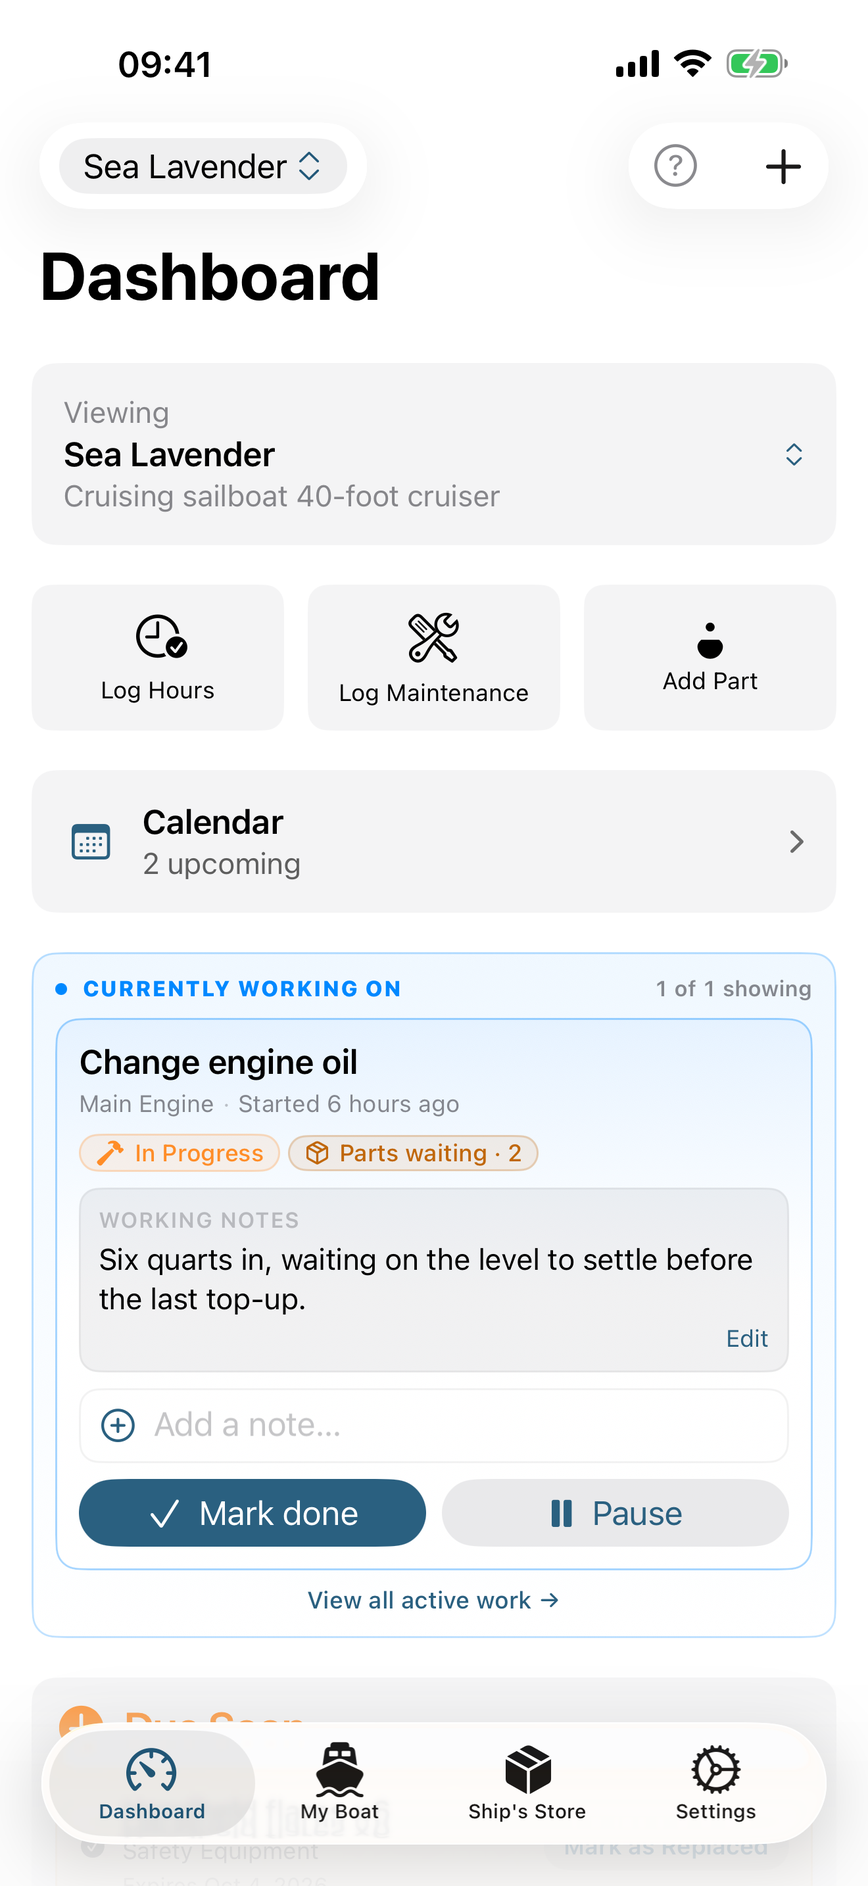
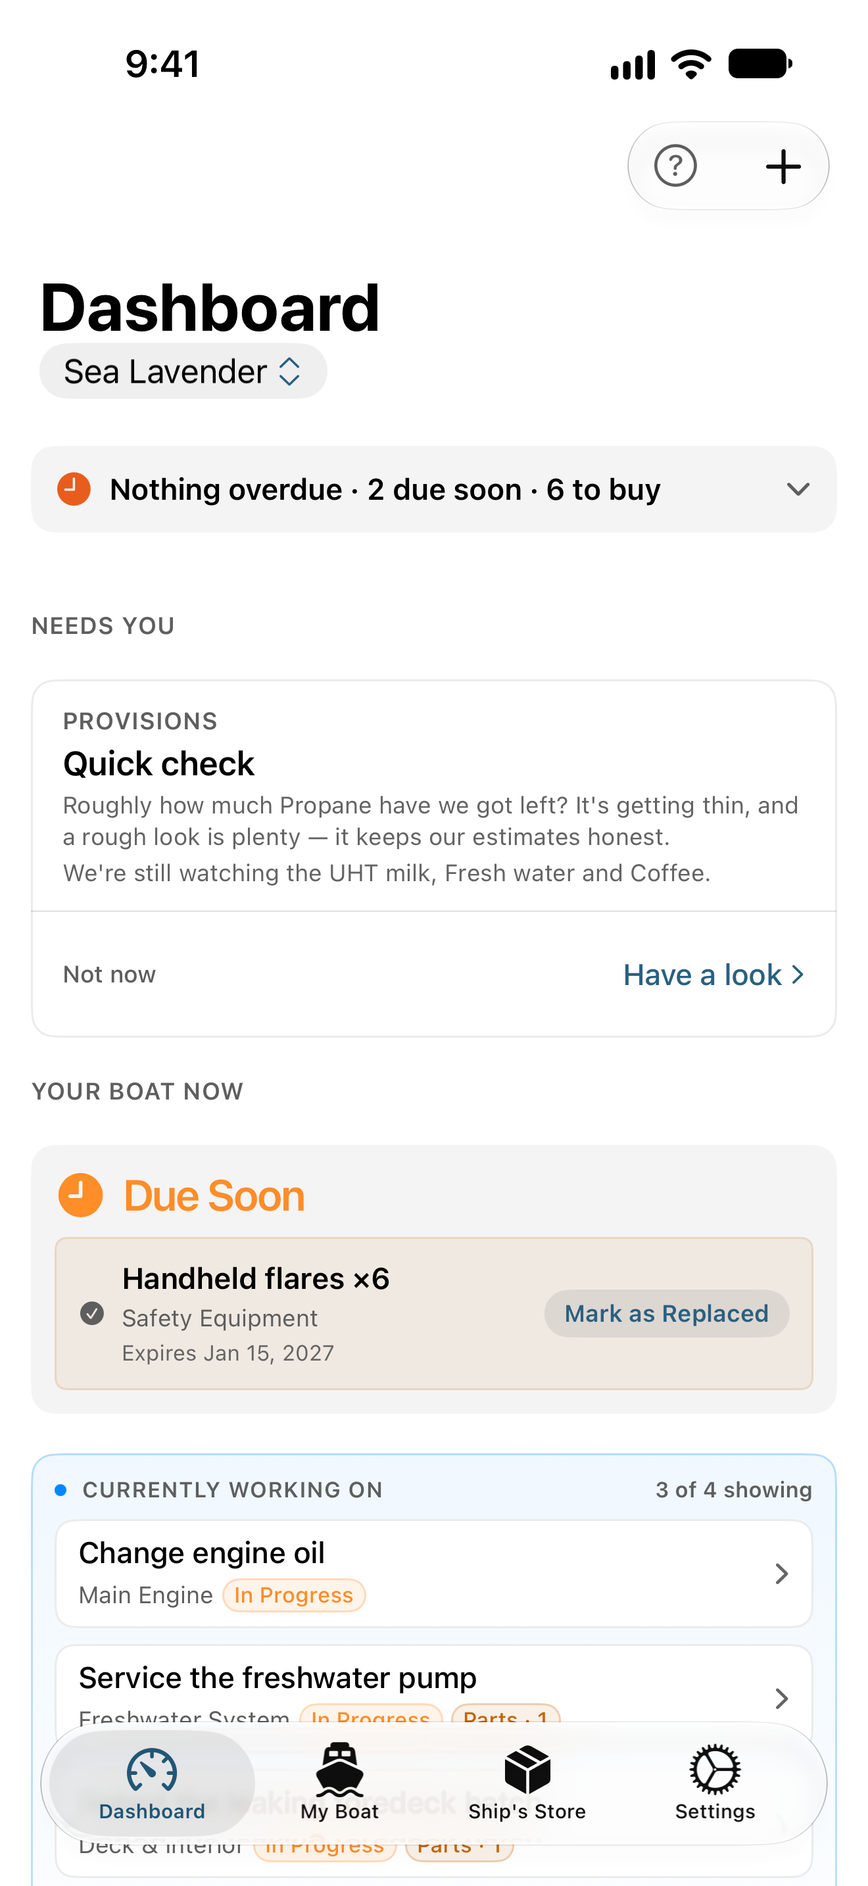
v1.7.0

diff --git a/index.html b/index.html
@@ -4,9 +4,9 @@
   <meta charset="UTF-8">
   <meta name="viewport" content="width=device-width, initial-scale=1.0">
   <title>Maintenance Crew — Boat maintenance, on your terms.</title>
-  <meta name="description" content="A boat-maintenance tracker for iPhone, iPad, and Mac. Schedule service, track parts, and pull schedules from manuals. No account, no tracking.">
+  <meta name="description" content="A boat-maintenance tracker for iPhone, iPad, and Mac. Schedule service, track parts, keep your boat&rsquo;s specs and ask Siri about them. No account, no tracking.">
   <meta property="og:title" content="Maintenance Crew">
-  <meta property="og:description" content="A boat-maintenance tracker for iPhone, iPad, and Mac. Schedule service, track parts, and pull schedules from manuals. No account, no tracking.">
+  <meta property="og:description" content="A boat-maintenance tracker for iPhone, iPad, and Mac. Schedule service, track parts, keep your boat&rsquo;s specs and ask Siri about them. No account, no tracking.">
   <meta property="og:type" content="website">
   <meta property="og:url" content="https://maintenancecrew.app">
   <link rel="stylesheet" href="style.css">
@@ -50,9 +50,9 @@
         <span class="price-note">Annual subscription &middot; Family Sharing &middot; iCloud Sync</span>
       </div>
       <div class="hero-phones">
-        <img src="assets/screen-shipstore-iphone.png" alt="Ship's Store showing spare parts by stow location">
-        <img src="assets/screen-dashboard-iphone.png" alt="Dashboard with what's overdue, active work, the calendar, and daily basics">
-        <img src="assets/screen-manual-iphone.png" alt="AI-powered PDF manual parsing">
+        <img src="assets/screen-knowledge-iphone.png" alt="Knowledge for Sea Lavender: dimensions and hull facts marked Recorded, with air draft and thru-hull locations still to fill">
+        <img src="assets/screen-dashboard-iphone.png" alt="Dashboard with what needs you, what's due soon, and the work in progress">
+        <img src="assets/screen-manual-iphone.png" alt="The Change engine oil schedule with its page of the engine manual open">
       </div>
     </section>
 
@@ -186,6 +186,18 @@
               <span class="feature-list-icon"><svg viewBox="0 0 24 24"><circle cx="10" cy="10" r="6"/><path d="M20 20l-4.5-4.5"/></svg></span>
               <span><strong>Find it without knowing its name.</strong> Search turns up the right scheduled task right from the Log Maintenance form, even when you can't remember exactly what it's called.</span>
             </li>
+            <li class="feature-list-item">
+              <span class="feature-list-icon"><svg viewBox="0 0 24 24"><path d="M3 12a9 9 0 1 0 3-6.7"/><path d="M3 4v5h5"/><path d="M12 8v4l2 2"/></svg></span>
+              <span><strong>Follow up on any job.</strong> Add a follow-up to any Ship&rsquo;s Log entry, in days, months or years &mdash; &ldquo;rebed this cleat in 10 years&rdquo; is one tap.</span>
+            </li>
+            <li class="feature-list-item">
+              <span class="feature-list-icon"><svg viewBox="0 0 24 24"><path d="M3 17h18"/><path d="M5 17l2-6h10l2 6"/><path d="M12 11V4"/></svg></span>
+              <span><strong>Every haul-out.</strong> Bottom paint, cutless bearing, thru-hulls: jobs that wait for the boat to come out gather on a Haul-out List when it does.</span>
+            </li>
+            <li class="feature-list-item">
+              <span class="feature-list-icon"><svg viewBox="0 0 24 24"><circle cx="9" cy="20" r="1.5"/><circle cx="17" cy="20" r="1.5"/><path d="M3 4h2l2.5 11h11L21 7H6.2"/></svg></span>
+              <span><strong>Buy ahead.</strong> Give a service kit a lead time and it lands on Buy now before the service is due, so the parts are aboard in time.</span>
+            </li>
           </ul>
         </div>
         <div class="feature-cluster">
@@ -293,8 +305,116 @@
       </ol>
     </section>
 
-    <section class="features" id="milestones-wishlist">
+    <section class="features" id="knowledge-ask">
       <span class="section-heading">New</span>
+      <h2 class="section-title">Know your boat. Ask about it.</h2>
+
+      <div class="feature-grid">
+        <div class="feature-cluster">
+          <span class="section-heading">Knowledge</span>
+          <div class="feature-card">
+            <div class="feature-icon">
+              <svg viewBox="0 0 24 24"><path d="M4 4h12a4 4 0 0 1 4 4v12H8a4 4 0 0 1-4-4z"/><path d="M8 9h8M8 13h8M8 17h5"/></svg>
+            </div>
+            <h3>The numbers you keep looking up.</h3>
+            <p>Draft, oil capacity, the impeller part number, prop size &mdash; keep them on one page for the boat and on each system. Gaps show as prompts, never a score, with a Before haul-out list and a Before a passage list.</p>
+          </div>
+          <ul class="feature-list">
+            <li class="feature-list-item">
+              <span class="feature-list-icon"><svg viewBox="0 0 24 24"><circle cx="11" cy="11" r="6"/><path d="M20 20l-4.5-4.5"/><path d="M8.5 11l2 2 3-3"/></svg></span>
+              <span><strong>Found in Your Records.</strong> Maintenance Crew reads your logs, notes, parts and manuals, or a photo of a data plate, and suggests facts. Nothing becomes a fact until you keep it.</span>
+            </li>
+            <li class="feature-list-item">
+              <span class="feature-list-icon"><svg viewBox="0 0 24 24"><path d="M10 14a4 4 0 0 0 5.7 0l3-3a4 4 0 0 0-5.7-5.7l-1 1"/><path d="M14 10a4 4 0 0 0-5.7 0l-3 3a4 4 0 0 0 5.7 5.7l1-1"/></svg></span>
+              <span><strong>Every fact shows where it came from.</strong> A manual page, a log entry, a photo &mdash; and when a value changes, the old one stays as dated history.</span>
+            </li>
+            <li class="feature-list-item">
+              <span class="feature-list-icon"><svg viewBox="0 0 24 24"><rect x="5" y="11" width="14" height="10" rx="2"/><path d="M8 11V7a4 4 0 0 1 8 0v4"/></svg></span>
+              <span><strong>Private when it should be.</strong> Mark a hull ID or a gate code Private, and it stays out of search, the Share sheet and Siri answers. Crewmates on a shared boat still see it.</span>
+            </li>
+          </ul>
+        </div>
+        <div class="feature-cluster">
+          <span class="section-heading">Ask, Siri &amp; Spotlight</span>
+          <div class="feature-card">
+            <div class="feature-icon">
+              <svg viewBox="0 0 24 24"><path d="M21 12a8 8 0 0 1-11.6 7.1L4 20l1-4.6A8 8 0 1 1 21 12z"/><path d="M9.5 9.5a2.5 2.5 0 1 1 3.5 2.3c-.6.3-1 .8-1 1.5V14"/><path d="M12 17h.01"/></svg>
+            </div>
+            <h3>&ldquo;What&rsquo;s the prop shaft diameter?&rdquo;</h3>
+            <p>Ask Siri and Maintenance Crew answers from your boat&rsquo;s own records, with a &ldquo;How I know&rdquo; line naming where the answer came from. When something was never written down, the answer says Not recorded.</p>
+          </div>
+          <ul class="feature-list">
+            <li class="feature-list-item">
+              <span class="feature-list-icon"><svg viewBox="0 0 24 24"><path d="M12 3a3 3 0 0 0-3 3v6a3 3 0 0 0 6 0V6a3 3 0 0 0-3-3z"/><path d="M19 11a7 7 0 0 1-14 0M12 18v3"/></svg></span>
+              <span><strong>Tell Siri, too.</strong> &ldquo;Tell Maintenance Crew the chain length is 60 metres&rdquo; saves a fact after you confirm it.</span>
+            </li>
+            <li class="feature-list-item">
+              <span class="feature-list-icon"><svg viewBox="0 0 24 24"><path d="M12 3l1.8 4.7L18.5 9.5l-4.7 1.8L12 16l-1.8-4.7L5.5 9.5l4.7-1.8z"/><path d="M19 15l.8 2.2L22 18l-2.2.8L19 21l-.8-2.2L16 18l2.2-.8z"/></svg></span>
+              <span><strong>Ask in the app.</strong> On devices with Apple Intelligence, Ask Maintenance Crew answers questions about your boat right in the app.</span>
+            </li>
+            <li class="feature-list-item">
+              <span class="feature-list-icon"><svg viewBox="0 0 24 24"><circle cx="10" cy="10" r="6"/><path d="M20 20l-4.5-4.5"/></svg></span>
+              <span><strong>Specs in Spotlight.</strong> Search your boat&rsquo;s specs from the Home Screen. Private facts and identifiers like a hull ID never show up there.</span>
+            </li>
+          </ul>
+        </div>
+      </div>
+    </section>
+
+    <section class="features" id="layup-tenders">
+      <span class="section-heading">On the hard</span>
+      <h2 class="section-title">Laid up for the season. Tender in tow.</h2>
+
+      <div class="feature-grid">
+        <div class="feature-cluster">
+          <span class="section-heading">Layup</span>
+          <div class="feature-card">
+            <div class="feature-icon">
+              <svg viewBox="0 0 24 24"><path d="M3 17h18"/><path d="M5 17l2-6h10l2 6"/><path d="M8 21v-4M16 21v-4"/><path d="M12 11V4"/></svg>
+            </div>
+            <h3>Hauled out, in refit, or winterized.</h3>
+            <p>Tell Maintenance Crew the boat is laid up and pick which systems go quiet. Their jobs stop nagging you about being overdue, and the reminders stop &mdash; until you&rsquo;re ready to go back in.</p>
+          </div>
+          <ul class="feature-list">
+            <li class="feature-list-item">
+              <span class="feature-list-icon"><svg viewBox="0 0 24 24"><path d="M6 8a6 6 0 0 1 12 0c0 7 3 9 3 9H3s3-2 3-9"/><path d="M10.3 21a1.94 1.94 0 0 0 3.4 0"/><path d="M3 3l18 18"/></svg></span>
+              <span><strong>Quiet, not forgotten.</strong> Quieted jobs keep their real due dates, marked Laid Up, so nothing disappears.</span>
+            </li>
+            <li class="feature-list-item">
+              <span class="feature-list-icon"><svg viewBox="0 0 24 24"><path d="M12 3l7 3v5c0 4.5-3 7.5-7 9-4-1.5-7-4.5-7-9V6z"/><path d="M9 12l2 2 4-4"/></svg></span>
+              <span><strong>Safety stays on.</strong> Safety gear and anything with an expiry date never go quiet.</span>
+            </li>
+            <li class="feature-list-item">
+              <span class="feature-list-icon"><svg viewBox="0 0 24 24"><path d="M4 6h16M4 12h10M4 18h6"/><path d="M17 15l2 2 3-3"/></svg></span>
+              <span><strong>A Launch List for relaunch.</strong> When you&rsquo;re ready, see what came due while you were away and add the jobs to Boat Projects in one tap.</span>
+            </li>
+          </ul>
+        </div>
+        <div class="feature-cluster">
+          <span class="section-heading">Tenders</span>
+          <div class="feature-card">
+            <div class="feature-icon">
+              <svg viewBox="0 0 24 24"><path d="M2 14h12l-2 4H4z"/><path d="M14 16h3"/><path d="M17 12h5l-1.5 4H17z"/></svg>
+            </div>
+            <h3>The dinghy belongs to the boat.</h3>
+            <p>Mark a dinghy or runabout as the tender of your boat, and it sits right underneath it in your vessel list &mdash; with its own systems, its own jobs, and its own history.</p>
+          </div>
+          <ul class="feature-list">
+            <li class="feature-list-item">
+              <span class="feature-list-icon"><svg viewBox="0 0 24 24"><path d="M12 3l7 3v5c0 4.5-3 7.5-7 9-4-1.5-7-4.5-7-9V6z"/><path d="M9 12l2 2 4-4"/></svg></span>
+              <span><strong>Ready together.</strong> Your boat&rsquo;s Readiness shows each tender&rsquo;s status alongside its own score.</span>
+            </li>
+            <li class="feature-list-item">
+              <span class="feature-list-icon"><svg viewBox="0 0 24 24"><path d="M3 12a9 9 0 1 0 3-6.7"/><path d="M3 4v5h5"/></svg></span>
+              <span><strong>Synced like everything else.</strong> The link follows your boats through iCloud to your other devices.</span>
+            </li>
+          </ul>
+        </div>
+      </div>
+    </section>
+
+    <section class="features" id="milestones-wishlist">
+      <span class="section-heading">Plan ahead</span>
       <h2 class="section-title">Work towards something. Buy it when the price is right.</h2>
 
       <div class="feature-grid">
@@ -338,7 +458,7 @@
           <ul class="feature-list">
             <li class="feature-list-item">
               <span class="feature-list-icon"><svg viewBox="0 0 24 24"><path d="M4 6h16M4 12h10M4 18h6"/></svg></span>
-              <span><strong>Grab it, Want, or Someday.</strong> Three tiers, set by you. No prices or budgets, by design.</span>
+              <span><strong>Buy on sight, Planned, or Someday.</strong> Three tiers, set by you. No prices or budgets, by design.</span>
             </li>
             <li class="feature-list-item">
               <span class="feature-list-icon"><svg viewBox="0 0 24 24"><circle cx="6" cy="6" r="2.5"/><circle cx="18" cy="18" r="2.5"/><path d="M8 8l8 8"/></svg></span>
@@ -428,7 +548,7 @@
         <p>On iPhone, Maintenance Crew is a quick check between jobs. On iPad and Mac it opens up into a full three-column workspace — sidebar, list, and detail side by side — so you can plan a season, review a system, and read the manual without losing your place. Every section opens to something worth looking at, not an empty pane, and picks up right where you left off next time. The same records, synced across every device you own — and, when you share a boat, with your crew.</p>
       </div>
       <div class="showcase-frame">
-        <img src="assets/screen-macos-myboat.png" alt="Maintenance Crew on Mac showing My Boat's three-column workspace: vessel systems in the sidebar and list, and the Main Engine detail pane with its parsed manual and maintenance list">
+        <img src="assets/screen-macos-myboat.png" alt="Maintenance Crew on Mac showing My Boat's three-column workspace: vessel systems in the sidebar and list, and the Main Engine detail pane with its parsed manual, maintenance list and Specs">
       </div>
     </section>
 

diff --git a/privacy.html b/privacy.html
@@ -13,7 +13,7 @@
     </header>
 
     <h1>Privacy Policy</h1>
-    <p class="meta">Last updated: July 2026</p>
+    <p class="meta">Last updated: November 2026</p>
 
     <p>Maintenance Crew is designed around a simple principle: your boat's data belongs to you. This policy describes precisely what data the app uses and what leaves your device.</p>
 
@@ -25,12 +25,16 @@
     <h2>Optional iCloud sync</h2>
     <p>Maintenance Crew includes an optional iCloud sync feature. When enabled, the app stores a copy of your data &mdash; including any photos you attach to vessels, parts, and schedules &mdash; in your personal iCloud private database using Apple's CloudKit infrastructure (container <code>iCloud.app.maintenancecrew</code>). Your data in iCloud is stored in your own Apple account and is accessible only to you &mdash; Maintenance Crew does not have access to your iCloud database.</p>
 
+    <p><strong>End-to-end encrypted fact values.</strong> The values of the facts you keep about your boat on the Knowledge page (the value itself, and any quantity and unit) are stored in iCloud end-to-end encrypted, using CloudKit's encrypted fields. Only your devices, and the devices of crewmates you share that boat with, can decrypt them. A fact's name, category and the quote from the record it came from are stored in iCloud the same way as the rest of your data, not end-to-end encrypted.</p>
+
+    <p><strong>Ship's Log photos.</strong> Photos attached to Ship's Log entries sync to your other devices through iCloud. Extra gallery photos on vessels, parts and tasks stay on the device where you added them.</p>
+
     <p>iCloud sync is governed by <a href="https://www.apple.com/legal/privacy/" rel="noopener">Apple's Privacy Policy</a>. You can disable it at any time in Settings &rarr; iCloud.</p>
 
     <h2>Sharing a boat with a crewmate</h2>
     <p>Maintenance Crew lets you share one specific boat with another person you invite &mdash; a "crewmate." Sharing is private and invite-only; there is no public link. It uses Apple's CloudKit sharing, so the shared boat's data is transmitted, through your and the crewmate's own iCloud accounts, to the people you invite. This is the one case in which your data reaches another person's device, and it happens only for a boat you deliberately share and only after the invitee accepts.</p>
 
-    <p>Everything attached to the shared boat travels with it &mdash; systems, parts, schedules, logs, manuals, and any photos, including a registration or insurance document photo. Maintenance Crew operates no server in this process; it is handled by Apple's CloudKit sharing and governed by <a href="https://www.apple.com/legal/privacy/" rel="noopener">Apple's Privacy Policy</a>. If you remove a crewmate (or one leaves), their copy becomes read-only and stops receiving updates; nothing already on their device is deleted.</p>
+    <p>Everything attached to the shared boat travels with it &mdash; systems, parts, schedules, logs, manuals, the facts on its Knowledge page (including Private ones), Ship's Log photos, and any other synced photos, including a registration or insurance document photo. Maintenance Crew operates no server in this process; it is handled by Apple's CloudKit sharing and governed by <a href="https://www.apple.com/legal/privacy/" rel="noopener">Apple's Privacy Policy</a>. If you remove a crewmate (or one leaves), their copy becomes read-only and stops receiving updates; nothing already on their device is deleted.</p>
 
     <h2>Location data</h2>
     <p>Maintenance Crew requests access to your device's location only when you use the Ship's Log feature to record where a log entry was made. Location access requires your explicit permission; the app requests <em>When In Use</em> authorization only.</p>
@@ -50,6 +54,25 @@
 
     <h2>Camera</h2>
     <p>When you add a spare part, you can optionally scan its packaging with the camera to fill in the manufacturer, name, and part number. The text and barcode recognition runs entirely on your device using Apple's on-device frameworks &mdash; the camera image is never uploaded for recognition. The photo you capture is attached to the part and is treated like any other photo (see iCloud sync and sharing above). Camera access requires your explicit permission.</p>
+
+    <p>You can also photograph a data plate or a manual page to suggest facts about your boat. That text is read the same way, on your device. See Reading text from your records and photos below.</p>
+
+    <p>Photos are re-encoded on your device when you save them, which removes their original metadata, including any GPS location. A photo that syncs to iCloud or to a crewmate carries no location.</p>
+
+    <h2>Reading text from your records and photos</h2>
+    <p>Found in Your Records suggests facts about your boat by reading your own logs, task notes, parts, schedules and manuals, and the text in a photo of a data plate or manual page if you add one. This reading happens entirely on your device. Photo text is recognized with Apple's on-device frameworks, and no AI model is used. Nothing is sent to Maintenance Crew or any other service, and a suggestion only becomes a fact if you keep it.</p>
+
+    <h2>Private facts</h2>
+    <p>You can mark any fact Private, and identifiers such as a hull ID, MMSI, registration or beacon ID found in your records are suggested as Private automatically. Private keeps a value out of Spotlight, out of what you send with Share, out of crewmate activity notices, and out of Siri answers until you tap Show. Private does not hide a value from crewmates: it still syncs to everyone you share that boat with, and they can see it in the app.</p>
+
+    <h2>Ask and Apple Intelligence</h2>
+    <p>On devices with Apple Intelligence, Ask Maintenance Crew answers questions about your boat inside the app. Answers are built from your own records on the device, and Apple's on-device model writes only the one-line headline. Nothing you ask, and nothing in your records, is sent to Maintenance Crew or to any third party. "Asked lately" keeps your recent questions for each boat on this device only; it is never synced. On devices without Apple Intelligence, Ask does not appear.</p>
+
+    <h2>Siri and Shortcuts</h2>
+    <p>You can ask Siri about your boat's facts and maintenance history, or tell Siri a new fact. The app answers from the records on your device; your request itself is handled by Apple under <a href="https://www.apple.com/legal/privacy/" rel="noopener">Apple's Privacy Policy</a>, and nothing is sent to Maintenance Crew. A Private value is never spoken or shown in a Siri answer: the answer asks you to tap Show, which iOS requires you to authenticate before the value appears. Telling Siri a new fact requires your device to be unlocked.</p>
+
+    <h2>Spotlight</h2>
+    <p>The facts you keep about your boats are added to your device's Spotlight index so you can search them from the Home Screen. The index lives on your device. Private facts are never indexed, and neither is any fact that looks like a hull ID, MMSI, registration or beacon ID. Suggested, dismissed and replaced values are not indexed either.</p>
 
     <h2>Notifications</h2>
     <p>Maintenance Crew can send local notifications for low stock and upcoming maintenance if you turn those options on in Settings. These are scheduled and delivered on your device by the system; no notification content is transmitted to any server operated by Maintenance Crew. Notifications require your explicit permission.</p>
@@ -73,15 +96,16 @@
     <h2>Summary of data flows</h2>
     <ul>
       <li><strong>Apple iCloud Backup</strong> &mdash; your device data may be included in Apple's encrypted iCloud Backup if you have that feature enabled. Governed by Apple's Privacy Policy.</li>
-      <li><strong>Apple iCloud Sync (optional)</strong> &mdash; your app data, including photos, is stored in your own iCloud private database when you enable the optional sync feature. Governed by Apple's Privacy Policy.</li>
+      <li><strong>Apple iCloud Sync (optional)</strong> &mdash; your app data, including photos, is stored in your own iCloud private database when you enable the optional sync feature. The values of your boat's facts are end-to-end encrypted. Governed by Apple's Privacy Policy.</li>
       <li><strong>Apple CloudKit sharing (optional)</strong> &mdash; when you share a boat with a crewmate, that one boat's data, including its photos, is transmitted through iCloud to the people you invite. Private and invite-only. Governed by Apple's Privacy Policy.</li>
       <li><strong>Your chosen AI provider (optional)</strong> &mdash; only if you add your own API key, the app sends a PDF manual you choose to that provider using your key to parse it automatically. Governed by that provider's privacy policy.</li>
+      <li><strong>Apple Siri (optional)</strong> &mdash; when you ask Siri about your boat or tell it a fact, Apple handles the request; the answer comes from the records on your device, and Private values are withheld until you tap Show. Governed by Apple's Privacy Policy.</li>
       <li><strong>Apple MapKit reverse geocoding</strong> &mdash; GPS coordinates are sent to Apple's servers to resolve place names, only when you record a Ship's Log entry with location enabled. Governed by Apple's Privacy Policy.</li>
       <li><strong>Apple Calendar (optional)</strong> &mdash; if you enable calendar sync, service and expiry dates are written to Apple Calendar with write-only access you grant. Governed by Apple's Privacy Policy.</li>
       <li><strong>App configuration</strong> &mdash; a configuration file is fetched from <code>maintenancecrew.app/api/v1/models.json</code> on launch. No personal data is transmitted.</li>
       <li><strong>Apple StoreKit / App Store</strong> &mdash; subscription and payment processing handled by Apple. No purchase data is transmitted to Maintenance Crew.</li>
     </ul>
-    <p>Apart from the optional flows listed above &mdash; each of which you turn on yourself &mdash; no other data leaves your device.</p>
+    <p>Apart from the optional flows listed above &mdash; each of which you turn on yourself &mdash; no other data leaves your device. Ask, Spotlight indexing, and reading text from your records and photos all run on your device and send nothing anywhere.</p>
 
     <h2>Contact</h2>
     <p>For questions about this privacy policy, contact <a href="mailto:privacy@maintenancecrew.app">privacy@maintenancecrew.app</a>.</p>
